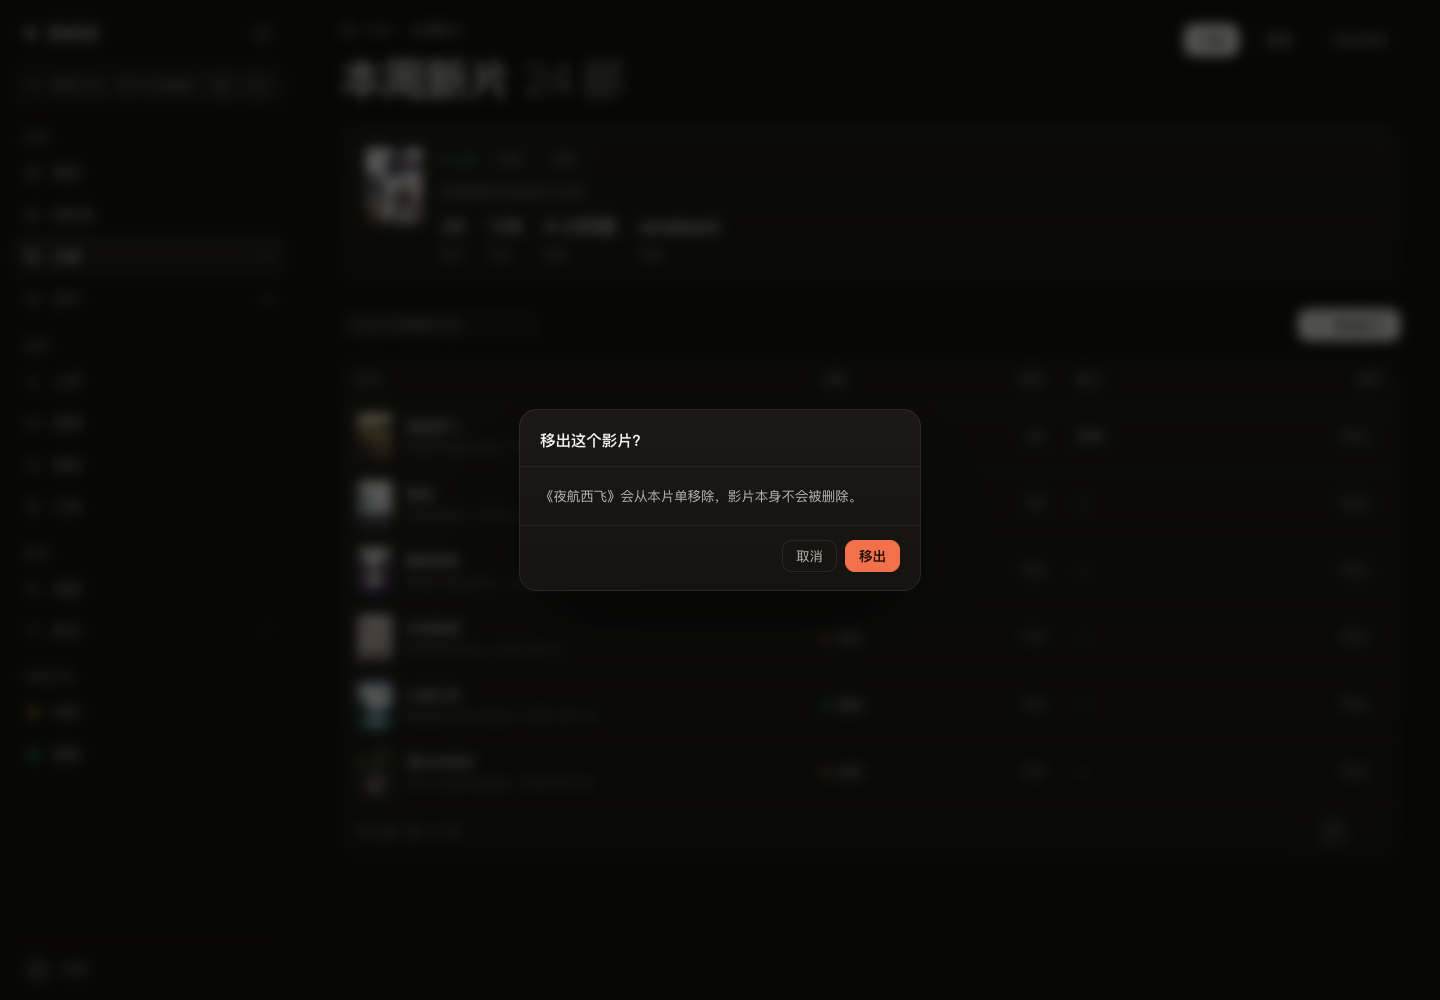
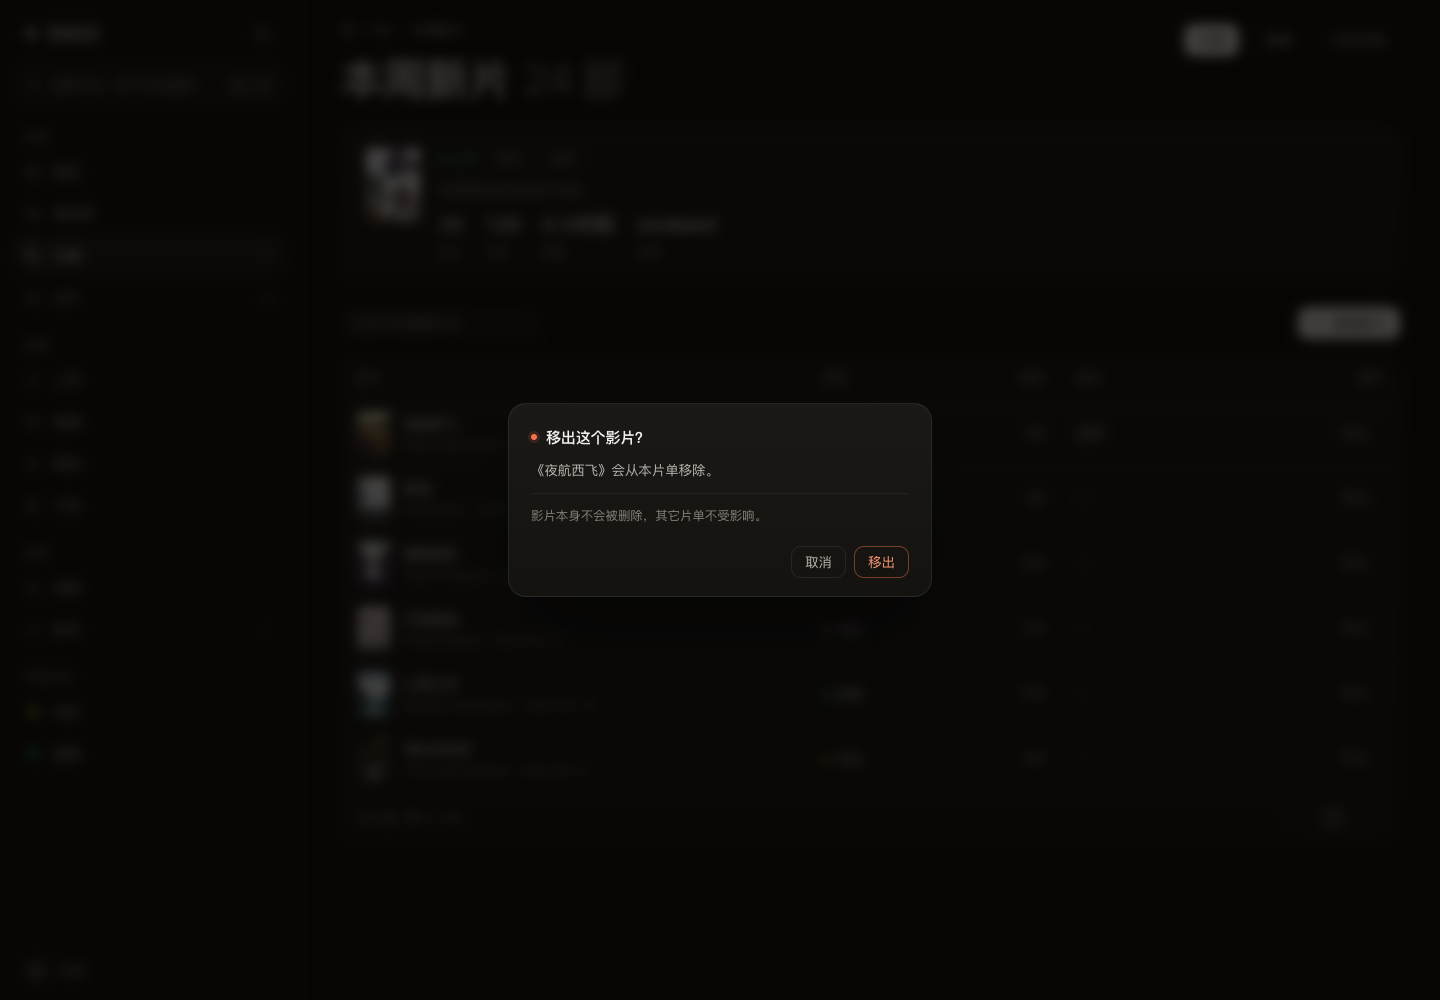
fix(ui): 确认框并入设计系统；恢复丢失的 box-sizing
- confirm：红色小点标记 + 标题/后果/可恢复性三层信息，按钮改为描边危险态（不再用实心橙块）
- 文案拆分 message（会怎样）与 hint（可否恢复）
- 恢复被误删的 *,*::before,*::after{box-sizing:border-box} 与 caret-color；此前整个界面在 content-box 下计算，弹窗宽度实测 470 而非 424
- 移除媒体库里语义不正确的「最近更新」（用了上映日期）

diff --git a/src/ui/confirm.tsx b/src/ui/confirm.tsx
@@ -3,6 +3,7 @@ import { useEffect, useRef, useState } from 'react'
 export interface ConfirmOptions {
   title: string
   message?: string
+  hint?: string
   confirmText?: string
   cancelText?: string
   danger?: boolean
@@ -35,33 +36,39 @@ export function ConfirmHost() {
     }
   }, [])
 
-  useEffect(() => {
-    if (!pending) return
-    const onKey = (e: KeyboardEvent) => {
-      if (e.key === 'Escape') settle(false)
-    }
-    window.addEventListener('keydown', onKey)
-    return () => window.removeEventListener('keydown', onKey)
-  }, [pending])
-
   const settle = (ok: boolean) => {
     current.current?.resolve(ok)
     current.current = null
     setPending(null)
   }
 
+  useEffect(() => {
+    if (!pending) return
+    const onKey = (e: KeyboardEvent) => {
+      if (e.key === 'Escape') settle(false)
+      if (e.key === 'Enter') settle(true)
+    }
+    window.addEventListener('keydown', onKey)
+    return () => window.removeEventListener('keydown', onKey)
+  })
+
   if (!pending) return null
 
   return (
-    <div className="modal-overlay" onClick={(e) => e.target === e.currentTarget && settle(false)}>
-      <div className="modal" style={{ width: 400 }} role="alertdialog" aria-modal="true" aria-label={pending.title}>
-        <div className="modal__head">
-          <h2 className="modal__title">{pending.title}</h2>
+    <div
+      className="modal-overlay modal-overlay--decision"
+      onClick={(e) => e.target === e.currentTarget && settle(false)}
+    >
+      <div className="confirm" role="alertdialog" aria-modal="true" aria-label={pending.title}>
+        <div className="confirm__head">
+          <span className={`confirm__dot${pending.danger ? ' confirm__dot--danger' : ''}`} />
+          <h2 className="confirm__title">{pending.title}</h2>
         </div>
-        <div className="modal__body">
-          {pending.message ? <p style={{ color: 'var(--fg-2)', fontSize: 13.5, lineHeight: 1.7 }}>{pending.message}</p> : null}
-        </div>
-        <div className="modal__foot">
+
+        {pending.message ? <p className="confirm__msg">{pending.message}</p> : null}
+        {pending.hint ? <p className="confirm__hint">{pending.hint}</p> : null}
+
+        <div className="confirm__foot">
           <button className="btn btn--ghost" onClick={() => settle(false)}>
             {pending.cancelText ?? '取消'}
           </button>

diff --git a/src/views/VideoDetailView.tsx b/src/views/VideoDetailView.tsx
@@ -85,7 +85,8 @@ export function VideoDetailView({
               onClick={async () => {
                 const ok = await confirmDialog({
                   title: '删除这部影片？',
-                  message: `《${video?.video_title}》会被标记为已删除，可从回收处恢复。`,
+                  message: `《${video?.video_title}》会被标记为已删除，从列表里移除。`,
+                  hint: '可从回收处恢复；已上传的资源和字幕不会被立即清除。',
                   confirmText: '删除',
                   danger: true,
                 })
@@ -378,7 +379,13 @@ export function VideoDetailView({
               className="btn btn--danger"
               style={{ marginLeft: 'auto' }}
               onClick={async () => {
-                const ok = await confirmDialog({ title: '删除这个资源？', message: '会扣除相应胡萝卜，可从回收处恢复。', danger: true, confirmText: '删除' })
+                const ok = await confirmDialog({
+                  title: '删除这个资源？',
+                  message: '删除后播放端立刻不可用。',
+                  hint: '会扣除相应胡萝卜，可从回收处恢复。',
+                  danger: true,
+                  confirmText: '删除',
+                })
                 if (ok) {
                   actions.removeMedia.mutate(renaming.mediaId, {
                     onSuccess: (res) => {
@@ -427,7 +434,13 @@ export function VideoDetailView({
           <button
             className="btn btn--ghost"
             onClick={async () => {
-              const ok = await confirmDialog({ title: '删除这条字幕？', danger: true, confirmText: '删除' })
+              const ok = await confirmDialog({
+                title: '删除这条字幕？',
+                message: '观看端将不再显示这条字幕。',
+                hint: '会扣除 1 个胡萝卜，可重新上传。',
+                danger: true,
+                confirmText: '删除',
+              })
               if (!ok) return
               actions.removeSubtitle.mutate(renamingSub.id, {
                 onSuccess: () => {

diff --git a/src/styles/components.css b/src/styles/components.css
@@ -857,13 +857,53 @@ tr:hover .row-menu,
 }
 
 .btn--danger {
-  background: var(--c-red);
-  border-color: var(--c-red);
-  color: #1a0c08;
-  font-weight: 550;
+  border-color: rgba(242, 112, 74, 0.45);
+  color: #ff9a7a;
+  background: transparent;
 }
-.btn--danger:hover { background: #ff8161; border-color: #ff8161; }
+.btn--danger:hover {
+  border-color: rgba(242, 112, 74, 0.8);
+  background: rgba(242, 112, 74, 0.1);
+  color: #ffb094;
+}
+.btn--danger:active { background: rgba(242, 112, 74, 0.16); }
 
+.modal-overlay--decision { background: rgba(5, 4, 3, 0.74); }
+
+.confirm {
+  width: 424px;
+  border-radius: var(--r-card);
+  border: 1px solid var(--line);
+  background: linear-gradient(180deg, #1a1917, #14130f);
+  box-shadow: 0 32px 80px -32px #000;
+  padding: 22px 22px 18px;
+}
+
+.confirm__head { display: flex; align-items: center; gap: 9px; margin-bottom: 10px; }
+
+.confirm__dot {
+  width: 6px;
+  height: 6px;
+  border-radius: 50%;
+  background: var(--fg-4);
+  flex: none;
+}
+.confirm__dot--danger { background: var(--c-red); box-shadow: 0 0 0 3px rgba(242, 112, 74, 0.14); }
+
+.confirm__title { font-size: 15px; font-weight: 550; letter-spacing: -0.01em; color: var(--fg); }
+
+.confirm__msg { margin: 0; font-size: 13.5px; line-height: 1.65; color: var(--fg-2); }
+
+.confirm__hint {
+  margin: 12px 0 0;
+  padding-top: 12px;
+  border-top: 1px solid var(--line-soft);
+  font-size: 12.5px;
+  line-height: 1.6;
+  color: var(--fg-4);
+}
+
+.confirm__foot { display: flex; justify-content: flex-end; gap: 8px; margin-top: 20px; }
 .progress-line {
   height: 3px;
   border-radius: 999px;

diff --git a/src/views/LibraryView.tsx b/src/views/LibraryView.tsx
@@ -4,7 +4,7 @@ import { EmptyBlock, ErrorBlock, LoadingBlock } from '@/components/StateBlock'
 import { IconArrowDown, IconDots, IconFilter, IconLeft, IconPlus, IconRight, IconSort } from '@/components/icons'
 import { useNavigate } from '@tanstack/react-router'
 import { useVideoPage } from '@/api/queries'
-import { formatRelative, formatThousand, VIDEO_TYPE_COLOR, VIDEO_TYPE_LABEL } from '@/lib/format'
+import { formatThousand, VIDEO_TYPE_COLOR, VIDEO_TYPE_LABEL } from '@/lib/format'
 import type { VideoType } from '@/api/types'
 
 export interface LibrarySearch {
@@ -199,12 +199,6 @@ export function LibraryView({ search, onSearch }: { search: LibrarySearch; onSea
             </div>
           </div>
         </div>
-      ) : null}
-
-      {data && data.items.length > 0 ? (
-        <p className="muted" style={{ marginTop: 14, fontSize: 12 }}>
-          最近更新 {formatRelative(data.items[0]?.video_date_air)}
-        </p>
       ) : null}
     </>
   )

diff --git a/src/views/WatchlistDetailView.tsx b/src/views/WatchlistDetailView.tsx
@@ -179,7 +179,8 @@ export function WatchlistDetailView({
                         onClick={async () => {
                           const ok = await confirmDialog({
                             title: '移出这个影片？',
-                            message: `《${video.video_title}》会从本片单移除，影片本身不会被删除。`,
+                            message: `《${video.video_title}》会从本片单移除。`,
+                            hint: '影片本身不会被删除，其它片单不受影响。',
                             confirmText: '移出',
                             danger: true,
                           })

diff --git a/src/styles/base.css b/src/styles/base.css
@@ -1,3 +1,7 @@
+*, *::before, *::after { box-sizing: border-box; }
+
+* { caret-color: var(--c-yellow); }
+
 html, body { height: 100%; }
 html {
   -webkit-text-size-adjust: 100%;
